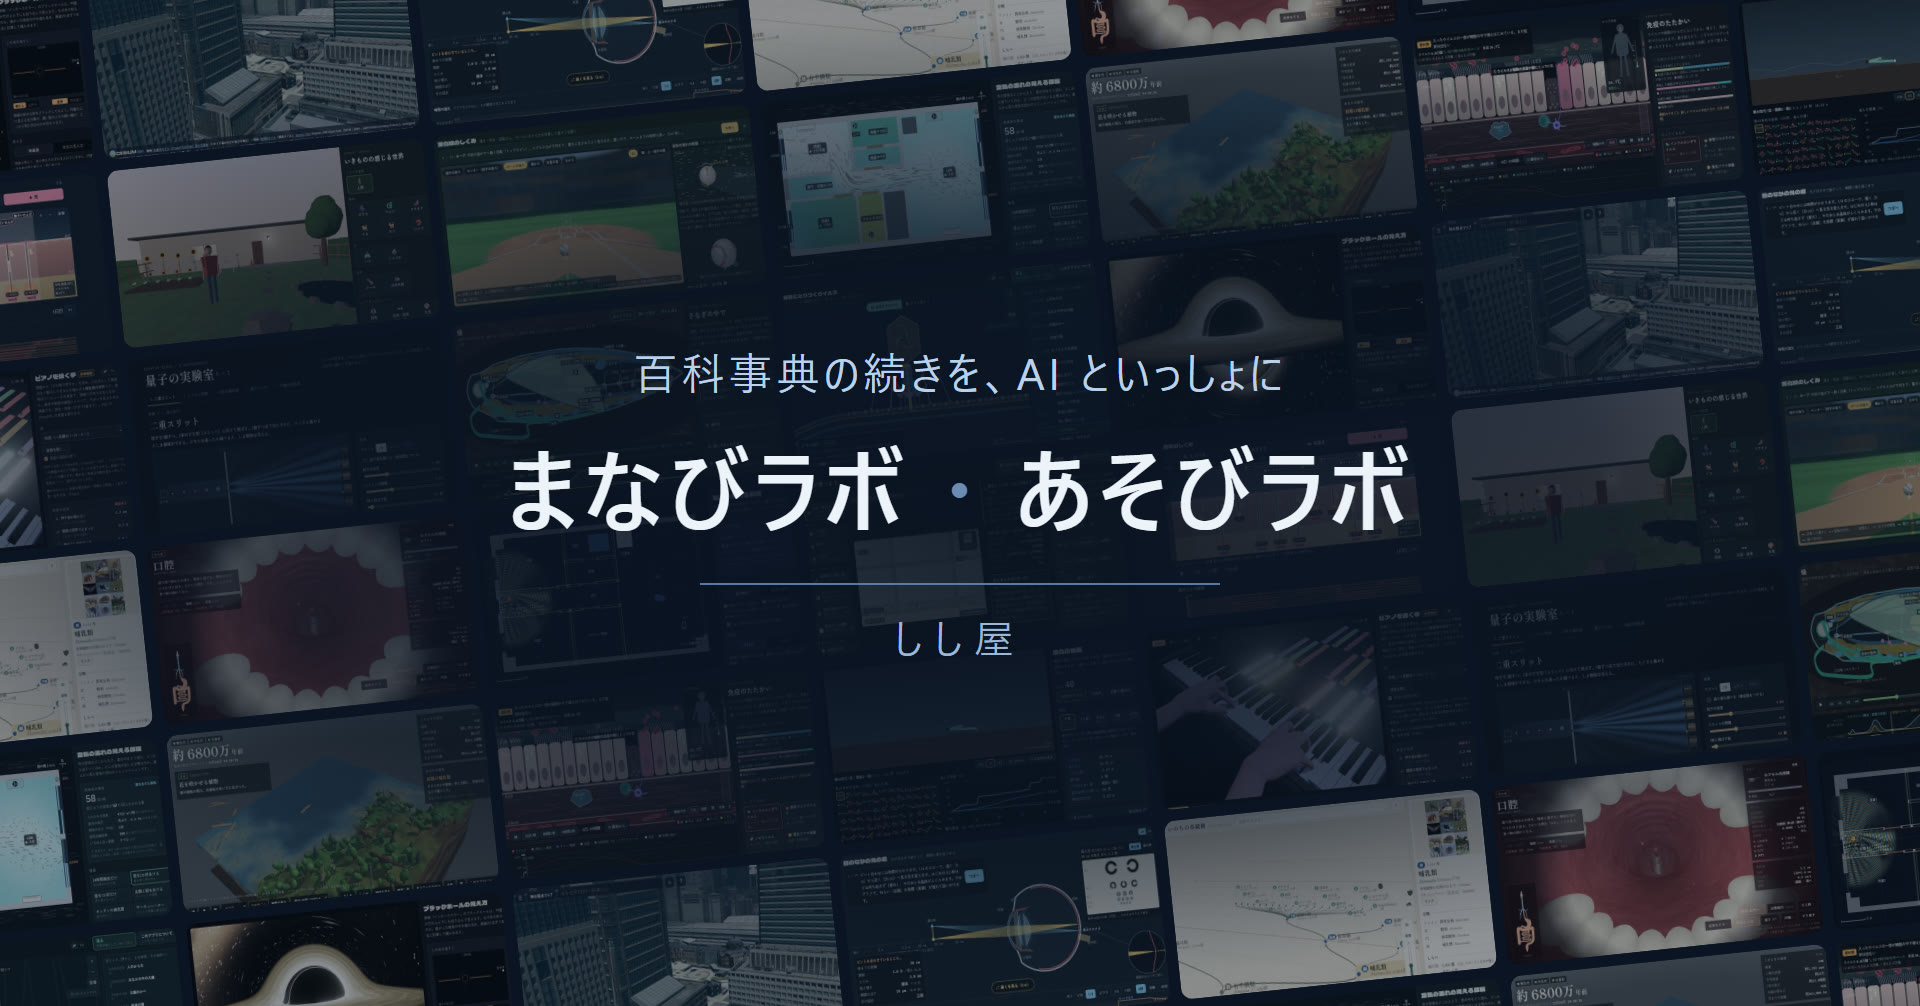
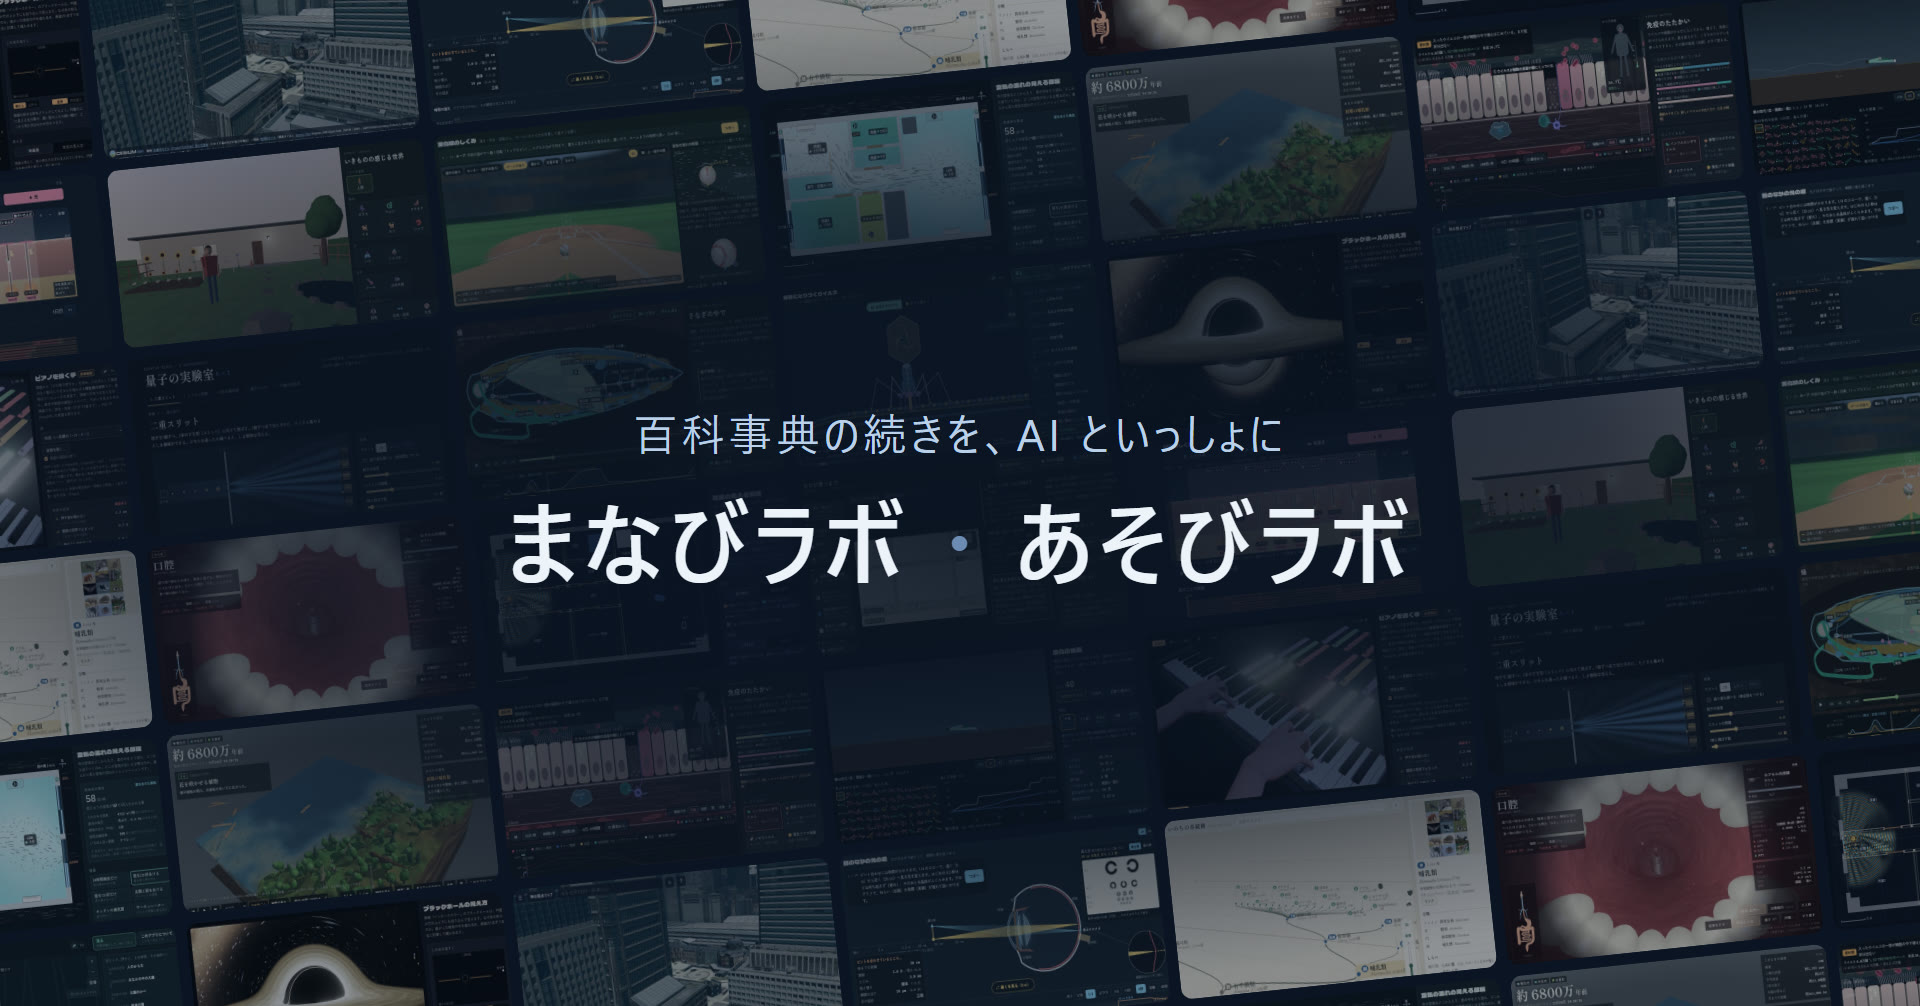
note: 背景画像の文字を2段に（スマホの細い帯で「しし屋」が切れていた）

Changed region(s): [[0.25, 0.339, 0.75, 0.5855], [0.4688, 0.6163, 0.5312, 0.6471]]

diff --git a/_dev/promo/note/header.html b/_dev/promo/note/header.html
@@ -1,7 +1,7 @@
 <!doctype html>
 <!-- note のクリエイターページの背景（ヘッダー）画像。1920×1006（note のおすすめ）。
      書き出し: msedge --headless --screenshot=header.png --window-size=1920,1006 header.html → ffmpeg で jpg。
-     note は真ん中を切りとって見せる（PC とスマホで幅が変わる）ので、文字は真ん中の帯に寄せる。 -->
+     note は真ん中を切りとって見せる。スマホでは高さの真ん中 3割ほどの細い帯になる（2026-10-17 に確かめた）ので、文字は2段だけにして真ん中に寄せる（しし屋の名前は下に出る）。 -->
 <html lang="ja"><head><meta charset="utf-8">
 <style>
   html, body { margin: 0; width: 1920px; height: 1006px; overflow: hidden; background: #0b1424; }
@@ -12,7 +12,7 @@
           background: radial-gradient(ellipse 62% 48% at 50% 50%, rgba(11,20,36,0.94) 0%, rgba(11,20,36,0.82) 55%, rgba(11,20,36,0.45) 100%); }
   .text { position: absolute; inset: 0; display: flex; flex-direction: column; align-items: center; justify-content: center;
           color: #eef3fb; font-family: 'Yu Gothic UI', 'Meiryo', sans-serif; text-align: center; }
-  .lead { font-size: 44px; letter-spacing: 0.08em; color: #bcd0ea; margin-bottom: 26px; }
+  .lead { font-size: 44px; letter-spacing: 0.08em; color: #bcd0ea; margin-bottom: 18px; }
   .labs { font-size: 92px; font-weight: 700; letter-spacing: 0.06em; }
   .labs span { color: #6d8bb3; font-weight: 400; margin: 0 0.3em; }
   .line { width: 520px; height: 2px; background: #5b7aa6; margin: 34px 0 26px; }
@@ -23,8 +23,6 @@
 <div class="text">
   <div class="lead">百科事典の続きを、AI といっしょに</div>
   <div class="labs">まなびラボ<span>・</span>あそびラボ</div>
-  <div class="line"></div>
-  <div class="brand">しし屋</div>
 </div>
 <script>
   // 入口の18本（並びは似た色が隣りあわないように手で混ぜた）
